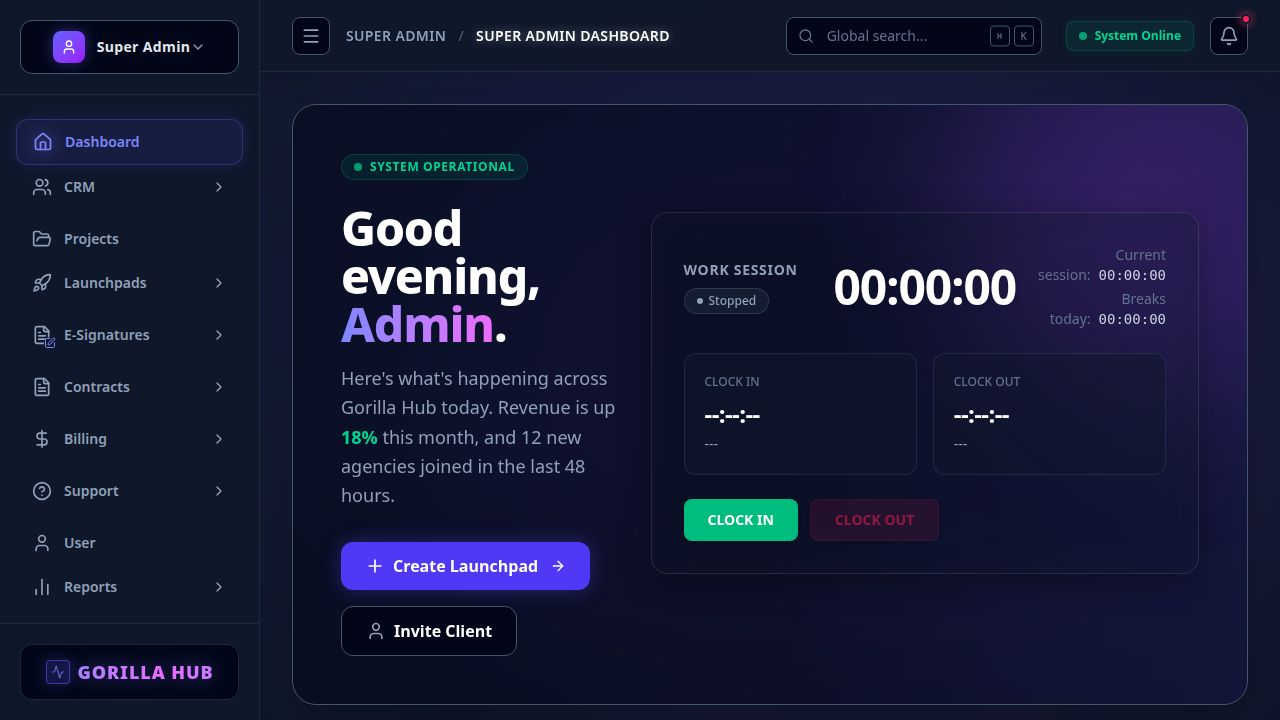
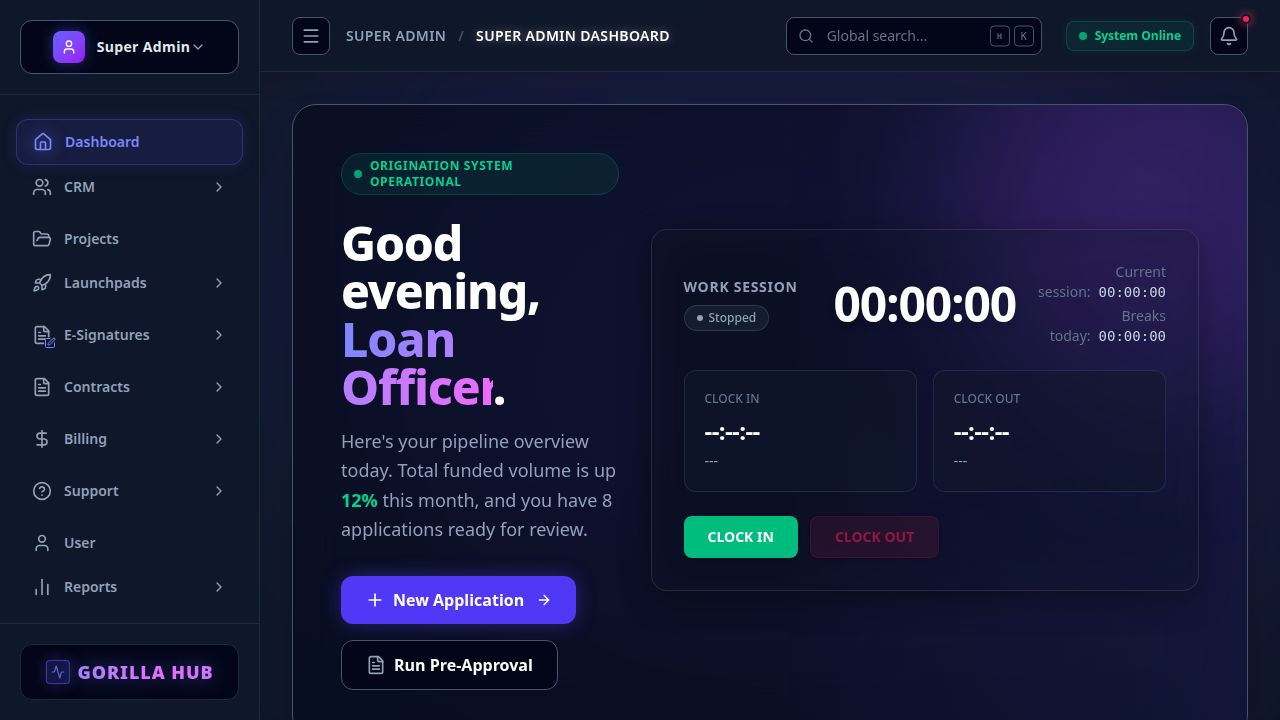
Tailor the dashboard for mortgage lenders and loan officers
Update the dashboard to reflect mortgage industry terminology and relevant metrics, changing the user role to "Loan Officer" and the title to "Pipeline Dashboard".

Replit-Commit-Author: Agent
Replit-Commit-Session-Id: 66178eed-1e73-4b0f-9774-d95ec04c2e16
Replit-Commit-Checkpoint-Type: full_checkpoint
Replit-Commit-Event-Id: aeb047b5-2c97-47df-9a31-aa381c2d09e6
Replit-Commit-Screenshot-Url: https://storage.googleapis.com/screenshot-production-us-central1/cde06d1c-05ae-446a-b0b3-461d07a2211d/66178eed-1e73-4b0f-9774-d95ec04c2e16/3mkCZMK
Replit-Helium-Checkpoint-Created: true

diff --git a/client/src/pages/home.tsx b/client/src/pages/home.tsx
@@ -52,7 +52,7 @@ export default function Home() {
         <div className="absolute top-0 left-1/2 -translate-x-1/2 w-full max-w-5xl h-[600px] bg-indigo-500/10 blur-[150px] rounded-full pointer-events-none z-0"></div>
         <div className="absolute bottom-0 right-0 w-[800px] h-[600px] bg-fuchsia-500/5 blur-[120px] rounded-full pointer-events-none z-0"></div>
 
-        <Header title="Super Admin Dashboard" />
+        <Header title="Pipeline Dashboard" />
 
         {/* Main Layout */}
         <div className="flex flex-1 overflow-hidden relative z-10">
@@ -68,24 +68,24 @@ export default function Home() {
                   <div className="max-w-2xl">
                     <div className="inline-flex items-center gap-2 px-3 py-1 rounded-full bg-emerald-500/10 border border-emerald-500/20 text-emerald-400 text-xs font-bold uppercase tracking-wider mb-6">
                       <span className="w-2 h-2 rounded-full bg-emerald-400 animate-pulse"></span>
-                      System Operational
+                      Origination System Operational
                     </div>
                     <h1 className="text-4xl md:text-5xl font-extrabold text-white tracking-tight mb-4">
-                      {greeting}, <span className="text-transparent bg-clip-text bg-gradient-to-r from-indigo-400 to-fuchsia-400">Admin</span>.
+                      {greeting}, <span className="text-transparent bg-clip-text bg-gradient-to-r from-indigo-400 to-fuchsia-400">Loan Officer</span>.
                     </h1>
                     <p className="text-slate-400 text-lg leading-relaxed mb-8 max-w-xl">
-                      Here's what's happening across Gorilla Hub today. Revenue is up <span className="text-emerald-400 font-bold">18%</span> this month, and 12 new agencies joined in the last 48 hours.
+                      Here's your pipeline overview today. Total funded volume is up <span className="text-emerald-400 font-bold">12%</span> this month, and you have 8 applications ready for review.
                     </p>
                     
                     <div className="flex flex-wrap items-center gap-4">
                       <button className="px-6 py-3 rounded-xl bg-indigo-600 hover:bg-indigo-500 text-white font-bold transition-all shadow-[0_0_20px_rgba(79,70,229,0.4)] hover:shadow-[0_0_30px_rgba(79,70,229,0.6)] flex items-center gap-2 group">
                         <Plus className="w-5 h-5" />
-                        Create Launchpad
+                        New Application
                         <ArrowRight className="w-4 h-4 ml-1 group-hover:translate-x-1 transition-transform" />
                       </button>
                       <button className="px-6 py-3 rounded-xl bg-slate-800 hover:bg-slate-700 text-white font-bold transition-all border border-slate-600 bg-slate-950 hover:border-slate-500 flex items-center gap-2">
-                        <User className="w-5 h-5 text-slate-400" />
-                        Invite Client
+                        <FileText className="w-5 h-5 text-slate-400" />
+                        Run Pre-Approval
                       </button>
                     </div>
                   </div>
@@ -99,10 +99,10 @@ export default function Home() {
               {/* TOP METRICS ROW */}
               <div className="grid grid-cols-1 md:grid-cols-2 lg:grid-cols-4 gap-6">
                 {[
-                  { title: 'Total Users', value: '12,482', trend: '+12%', up: true, icon: Users, color: 'purple' },
-                  { title: 'Active Clients', value: '842', trend: '+5%', up: true, icon: Building2, color: 'cyan' },
-                  { title: 'Monthly MRR', value: '$142.5k', trend: '+18%', up: true, icon: Activity, color: 'emerald' },
-                  { title: 'API Requests/min', value: '4,281', trend: 'Stable', up: true, icon: Server, color: 'orange' }
+                  { title: 'Active Pipeline', value: '$4.2M', trend: '+12%', up: true, icon: Briefcase, color: 'purple' },
+                  { title: 'Loans in Process', value: '14', trend: '+2', up: true, icon: FileText, color: 'cyan' },
+                  { title: 'Funded YTD', value: '$18.5M', trend: '+18%', up: true, icon: DollarSign, color: 'emerald' },
+                  { title: 'Avg Close Time', value: '22 Days', trend: '-3 Days', up: true, icon: Activity, color: 'orange' }
                 ].map((metric, i) => (
                   <div 
                     key={i} 
@@ -113,7 +113,7 @@ export default function Home() {
                       <div className={`p-3 rounded-xl bg-${metric.color}-500/10 border border-${metric.color}-500/20 text-${metric.color}-400 group-hover:bg-${metric.color}-500 group-hover:text-white transition-colors`}>
                         <metric.icon className="w-5 h-5" />
                       </div>
-                      <div className={`flex items-center gap-1 text-xs font-bold px-2.5 py-1 rounded-md ${metric.trend === 'Stable' ? 'bg-slate-800 text-slate-300' : 'bg-emerald-500/10 text-emerald-400'}`}>
+                      <div className={`flex items-center gap-1 text-xs font-bold px-2.5 py-1 rounded-md ${metric.trend.includes('-') && !metric.trend.includes('Days') ? 'bg-rose-500/10 text-rose-400' : 'bg-emerald-500/10 text-emerald-400'}`}>
                         {metric.trend !== 'Stable' && <TrendingUp className="w-3 h-3" />} {metric.trend}
                       </div>
                     </div>
@@ -134,8 +134,8 @@ export default function Home() {
                   
                   <div className="flex flex-col sm:flex-row sm:items-center justify-between gap-4 mb-8 relative z-10">
                     <div>
-                      <h2 className="text-xl font-bold text-white mb-1">Platform Revenue Growth</h2>
-                      <p className="text-sm text-slate-400">MRR trajectory across all agency tiers</p>
+                      <h2 className="text-xl font-bold text-white mb-1">Funded Volume Overview</h2>
+                      <p className="text-sm text-slate-400">Total loan amount funded across all programs</p>
                     </div>
                     <div className="flex bg-slate-800/80 p-1 rounded-lg border border-slate-600 bg-slate-950/50">
                       {['7D', '30D', '90D'].map((range) => (
@@ -158,7 +158,7 @@ export default function Home() {
                   <div className="h-72 flex items-end gap-2 relative z-10 pt-4 mt-4">
                     {/* Y Axis */}
                     <div className="absolute left-0 top-0 bottom-0 flex flex-col justify-between text-xs text-slate-500 font-mono py-2 w-12 border-r border-slate-800">
-                      <span>$150k</span><span>$100k</span><span>$50k</span><span>$0</span>
+                      <span>$2M</span><span>$1.5M</span><span>$1M</span><span>$0</span>
                     </div>
                     
                     {/* Grid Lines */}
@@ -176,7 +176,7 @@ export default function Home() {
                           {/* Tooltip */}
                           <div className="absolute -top-12 left-1/2 -translate-x-1/2 bg-slate-800 border border-slate-600 bg-slate-950 text-white text-xs py-1.5 px-3 rounded-lg opacity-0 group-hover/bar:opacity-100 transition-opacity z-20 pointer-events-none whitespace-nowrap shadow-xl flex items-center gap-1.5 font-bold">
                             <span className="w-1.5 h-1.5 rounded-full bg-indigo-400"></span>
-                            ${(height * 1.5).toFixed(1)}k
+                            ${(height * 0.02).toFixed(2)}M
                           </div>
                           
                           {/* Bar */}
@@ -199,126 +199,108 @@ export default function Home() {
                   </div>
                 </div>
 
-                {/* ROI / Revenue Calculator Widget */}
+                {/* Rates Widget */}
                 <div className="bg-slate-900/60 backdrop-blur-xl rounded-2xl border border-slate-600 bg-slate-950/50 shadow-lg flex flex-col animate-in fade-in slide-in-from-bottom-4 delay-700 border-t-emerald-500 border-t-4 relative overflow-hidden">
                   <div className="absolute top-0 right-0 w-32 h-32 bg-emerald-500/10 blur-[50px] rounded-full"></div>
                   
                   <div className="p-6 border-b border-slate-800/80">
                     <h2 className="text-lg font-bold text-white flex items-center gap-2 mb-1">
-                      <Calculator className="w-5 h-5 text-emerald-400" /> Revenue Projection
+                      <Percent className="w-5 h-5 text-emerald-400" /> Today's Rates
                     </h2>
-                    <p className="text-xs text-slate-400">Forecast MRR based on client growth</p>
+                    <p className="text-xs text-slate-400">National average mortgage rates</p>
                   </div>
                   
-                  <div className="p-6 flex-1 flex flex-col justify-between space-y-6">
-                    <div className="space-y-5">
-                      <div>
-                        <div className="flex justify-between items-end mb-2">
-                          <label className="text-[13px] font-bold text-slate-300">New Clients / Month</label>
-                          <span className="text-[15px] font-bold text-white bg-slate-800 px-2 py-0.5 rounded">{calcClients}</span>
-                        </div>
-                        <input 
-                          type="range" 
-                          min="1" 
-                          max="100" 
-                          value={calcClients}
-                          onChange={(e) => setCalcClients(parseInt(e.target.value))}
-                          className="w-full h-2 bg-slate-800 rounded-lg appearance-none cursor-pointer accent-emerald-500"
-                        />
-                      </div>
-                      
-                      <div>
-                        <div className="flex justify-between items-end mb-2">
-                          <label className="text-[13px] font-bold text-slate-300">Average Retainer</label>
-                          <span className="text-[15px] font-bold text-white bg-slate-800 px-2 py-0.5 rounded">${calcRetainer.toLocaleString()}</span>
-                        </div>
-                        <input 
-                          type="range" 
-                          min="500" 
-                          max="10000" 
-                          step="100"
-                          value={calcRetainer}
-                          onChange={(e) => setCalcRetainer(parseInt(e.target.value))}
-                          className="w-full h-2 bg-slate-800 rounded-lg appearance-none cursor-pointer accent-emerald-500"
-                        />
-                      </div>
+                  <div className="p-0 flex-1 flex flex-col">
+                    <div className="divide-y divide-slate-800/80">
+                      {[
+                        { program: '30-Year Fixed', rate: '6.85%', apr: '7.02%', trend: 'down' },
+                        { program: '15-Year Fixed', rate: '6.12%', apr: '6.31%', trend: 'down' },
+                        { program: '5/1 ARM', rate: '6.25%', apr: '7.54%', trend: 'up' },
+                        { program: 'Jumbo 30-Year', rate: '7.05%', apr: '7.15%', trend: 'stable' },
+                        { program: 'FHA 30-Year', rate: '6.45%', apr: '7.38%', trend: 'down' }
+                      ].map((item, i) => (
+                         <div key={i} className="p-4 flex items-center justify-between hover:bg-slate-800/40 transition-colors">
+                            <div>
+                               <div className="text-sm font-bold text-white">{item.program}</div>
+                               <div className="text-[11px] text-slate-400">APR {item.apr}</div>
+                            </div>
+                            <div className="flex items-center gap-3">
+                               <div className="text-lg font-extrabold text-emerald-400">{item.rate}</div>
+                               <div className={`flex items-center justify-center w-5 h-5 rounded-full ${
+                                 item.trend === 'down' ? 'bg-emerald-500/20 text-emerald-400' : 
+                                 item.trend === 'up' ? 'bg-rose-500/20 text-rose-400' : 
+                                 'bg-slate-700 text-slate-400'
+                               }`}>
+                                 {item.trend === 'down' ? <TrendingUp className="w-3 h-3 rotate-180" /> : 
+                                  item.trend === 'up' ? <TrendingUp className="w-3 h-3" /> : 
+                                  <span className="w-2 h-0.5 bg-slate-400 rounded-full"></span>}
+                               </div>
+                            </div>
+                         </div>
+                      ))}
                     </div>
                     
-                    <div className="bg-gradient-to-br from-slate-800 to-slate-900 border border-slate-600 bg-slate-950/50 rounded-xl p-5 relative overflow-hidden group">
-                      <div className="absolute inset-0 bg-emerald-500/5 opacity-0 group-hover:opacity-100 transition-opacity"></div>
-                      <div className="text-[11px] font-bold text-slate-400 uppercase tracking-wider mb-1">Projected Added MRR</div>
-                      <div className="text-3xl font-extrabold text-emerald-400 tracking-tight mb-4">
-                        ${(calcClients * calcRetainer).toLocaleString()}
-                        <span className="text-sm text-slate-500 font-normal">/mo</span>
-                      </div>
-                      
-                      <div className="flex justify-between items-center pt-4 border-t border-slate-600 bg-slate-950/50">
-                        <div className="text-[11px] font-bold text-slate-400 uppercase">Annual Impact</div>
-                        <div className="text-sm font-bold text-white">
-                          +${(calcClients * calcRetainer * 12).toLocaleString()}
-                        </div>
-                      </div>
+                    <div className="mt-auto p-4 border-t border-slate-800/80 bg-slate-900/30 text-center">
+                       <span className="text-[11px] text-slate-500 font-medium">Last updated: Today at 8:30 AM EST</span>
                     </div>
                   </div>
                 </div>
               </div>
 
-              {/* BOTTOM ROW: REVIEWS, FEEDBACK, TICKETS */}
+              {/* BOTTOM ROW: PIPELINE, TASKS */}
               <div className="grid grid-cols-1 lg:grid-cols-3 gap-6">
                 
-                {/* Client Reviews Widget */}
+                {/* Task List Widget */}
                 <div className="glass-panel rounded-2xl border border-slate-600 bg-slate-950/50 shadow-lg flex flex-col animate-in fade-in slide-in-from-bottom-4 delay-1000 border-t-amber-500 border-t-4">
                   <div className="p-5 border-b border-slate-800/80 flex justify-between items-center bg-slate-900/30">
                     <h2 className="text-[15px] font-bold text-white flex items-center gap-2">
-                      <MessageSquare className="w-4 h-4 text-amber-400" /> Client Feedback
+                      <CheckSquare className="w-4 h-4 text-amber-400" /> Action Items
                     </h2>
-                    <span className="text-xs font-bold text-amber-400 bg-amber-400/10 px-2 py-0.5 rounded">4.9/5.0</span>
+                    <span className="text-xs font-bold text-amber-400 bg-amber-400/10 px-2 py-0.5 rounded">6 Due Today</span>
                   </div>
                   
-                  <div className="p-5 space-y-4">
-                    {[
-                      { name: 'Sarah Jenkins', company: 'Nexus Digital', rating: 5, text: 'The new dashboard completely transformed how we manage projects.', time: '2h ago' },
-                      { name: 'Marcus Cole', company: 'Blue Ocean', rating: 5, text: 'Incredible onboarding experience. Gorilla Hub is next level.', time: '5h ago' },
-                      { name: 'Elena Rostova', company: 'Studio Elevate', rating: 4, text: 'Great templates, saved us hours of setup work this week.', time: '1d ago' }
-                    ].map((review, i) => (
-                      <div key={i} className="p-4 rounded-xl bg-slate-800/40 border border-slate-600 bg-slate-950/50 hover:bg-slate-800/60 transition-colors">
-                        <div className="flex justify-between items-start mb-2">
-                          <div className="flex items-center gap-2">
-                            <div className="w-8 h-8 rounded-full bg-slate-700 flex items-center justify-center text-xs font-bold text-white border border-slate-600 bg-slate-950">
-                              {review.name.charAt(0)}
-                            </div>
-                            <div>
-                              <div className="text-[13px] font-bold text-white leading-none">{review.name}</div>
-                              <div className="text-[11px] text-slate-400 mt-1">{review.company}</div>
-                            </div>
-                          </div>
-                          <div className="flex gap-0.5">
-                            {[...Array(5)].map((_, j) => (
-                              <Star key={j} className={`w-3 h-3 ${j < review.rating ? 'text-amber-400 fill-amber-400' : 'text-slate-600'}`} />
-                            ))}
-                          </div>
+                  <div className="p-0">
+                    <div className="divide-y divide-slate-800/50">
+                      {[
+                        { task: 'Review appraisal for Smith property', client: 'John & Jane Smith', type: 'Underwriting', time: '10:00 AM' },
+                        { task: 'Send initial disclosures', client: 'Michael Johnson', type: 'Origination', time: '1:30 PM' },
+                        { task: 'Follow up on missing W2s', client: 'Sarah Williams', type: 'Processing', time: '3:00 PM' },
+                        { task: 'Lock rate before expiration', client: 'David Brown', type: 'Lock Desk', time: '4:15 PM' },
+                        { task: 'Call listing agent for status', client: 'Emily Davis', type: 'Communication', time: '5:00 PM' }
+                      ].map((task, i) => (
+                        <div key={i} className="p-4 flex items-start gap-3 hover:bg-slate-800/40 transition-colors group cursor-pointer">
+                           <div className="mt-0.5 w-4 h-4 rounded border border-slate-500 bg-slate-800 flex items-center justify-center group-hover:border-amber-500 transition-colors">
+                              <CheckSquare className="w-3 h-3 text-transparent group-hover:text-amber-500/50" />
+                           </div>
+                           <div className="flex-1 min-w-0">
+                              <div className="text-[13px] font-bold text-white mb-0.5 truncate">{task.task}</div>
+                              <div className="flex items-center gap-2 text-[11px]">
+                                <span className="text-slate-400 truncate">{task.client}</span>
+                                <span className="w-1 h-1 rounded-full bg-slate-600"></span>
+                                <span className="text-amber-400/80">{task.type}</span>
+                              </div>
+                           </div>
+                           <div className="text-[11px] font-medium text-slate-500 whitespace-nowrap">{task.time}</div>
                         </div>
-                        <p className="text-[13px] text-slate-300 leading-relaxed italic relative">
-                          <span className="text-slate-600 font-serif text-lg absolute -top-1 -left-1">"</span>
-                          &nbsp;&nbsp;{review.text}
-                        </p>
-                      </div>
-                    ))}
+                      ))}
+                    </div>
                     
-                    <button className="w-full py-2.5 rounded-lg border border-slate-600 bg-slate-950 text-[13px] font-bold text-slate-300 hover:bg-slate-800 hover:text-white transition-colors mt-2">
-                      View All Reviews
-                    </button>
+                    <div className="p-4 border-t border-slate-800/80 bg-slate-900/30">
+                        <button className="w-full py-2.5 rounded-lg border border-slate-600 bg-slate-950 text-[13px] font-bold text-slate-300 hover:bg-slate-800 hover:text-white transition-colors">
+                        View All Tasks
+                        </button>
+                    </div>
                   </div>
                 </div>
 
-                {/* Urgent Support Tickets */}
+                {/* Pipeline Status */}
                 <div className="lg:col-span-2 glass-panel rounded-2xl border border-slate-600 bg-slate-950/50 shadow-lg flex flex-col animate-in fade-in slide-in-from-bottom-4 delay-1000 border-t-rose-500 border-t-4">
                   <div className="p-5 border-b border-slate-800/80 flex justify-between items-center bg-slate-900/30">
                     <h2 className="text-[15px] font-bold text-white flex items-center gap-2">
-                      <ShieldAlert className="w-4 h-4 text-rose-400" /> Attention Required
+                      <Zap className="w-4 h-4 text-rose-400" /> Active Pipeline Needs Attention
                     </h2>
-                    <Link href="/tickets" className="text-xs font-bold text-slate-400 hover:text-white transition-colors">
-                      View All Tickets <ArrowRight className="w-3 h-3 inline" />
+                    <Link href="/clients" className="text-xs font-bold text-slate-400 hover:text-white transition-colors">
+                      View Full Pipeline <ArrowRight className="w-3 h-3 inline" />
                     </Link>
                   </div>
                   
@@ -326,33 +308,37 @@ export default function Home() {
                     <table className="w-full text-left">
                       <thead className="bg-slate-950 border-b border-slate-800">
                         <tr>
-                          <th className="py-3 px-5 text-[11px] font-bold text-slate-400 uppercase tracking-wider">Ticket ID</th>
-                          <th className="py-3 px-5 text-[11px] font-bold text-slate-400 uppercase tracking-wider">Client</th>
-                          <th className="py-3 px-5 text-[11px] font-bold text-slate-400 uppercase tracking-wider">Issue Description</th>
+                          <th className="py-3 px-5 text-[11px] font-bold text-slate-400 uppercase tracking-wider">Borrower</th>
+                          <th className="py-3 px-5 text-[11px] font-bold text-slate-400 uppercase tracking-wider">Loan Amount</th>
+                          <th className="py-3 px-5 text-[11px] font-bold text-slate-400 uppercase tracking-wider">Program</th>
+                          <th className="py-3 px-5 text-[11px] font-bold text-slate-400 uppercase tracking-wider">Est. Close</th>
                           <th className="py-3 px-5 text-[11px] font-bold text-slate-400 uppercase tracking-wider text-right">Status</th>
                         </tr>
                       </thead>
                       <tbody className="divide-y divide-slate-800/50">
                         {[
-                          { id: '#T-4921', rawId: '4921', agency: 'Pink Gorilla', agencyId: '1', issue: 'API Webhook failing on production', status: 'Escalated', color: 'text-rose-400 bg-rose-500/10 border-rose-500/20' },
-                          { id: '#T-4920', rawId: '4920', agency: 'Acme Digital', agencyId: '2', issue: 'Billing portal error during checkout', status: 'In Progress', color: 'text-amber-400 bg-amber-500/10 border-amber-500/20' },
-                          { id: '#T-4915', rawId: '4915', agency: 'Creative LLC', agencyId: '3', issue: 'Custom domain setup SSL pending', status: 'Waiting', color: 'text-indigo-400 bg-indigo-500/10 border-indigo-500/20' },
-                          { id: '#T-4908', rawId: '4908', agency: 'Global Tech', agencyId: '4', issue: 'White label email configuration', status: 'In Progress', color: 'text-amber-400 bg-amber-500/10 border-amber-500/20' },
-                          { id: '#T-4902', rawId: '4902', agency: 'Design Co', agencyId: '5', issue: 'Team member invites not sending', status: 'New', color: 'text-cyan-400 bg-cyan-500/10 border-cyan-500/20' },
-                        ].map((ticket, i) => (
+                          { name: 'Smith, John & Jane', amount: '$450,000', program: '30-Yr Conv', closeDate: 'Oct 15', status: 'Clear to Close', color: 'text-emerald-400 bg-emerald-500/10 border-emerald-500/20' },
+                          { name: 'Johnson, Michael', amount: '$325,000', program: 'FHA 30-Yr', closeDate: 'Oct 22', status: 'Cond. Approval', color: 'text-indigo-400 bg-indigo-500/10 border-indigo-500/20' },
+                          { name: 'Williams, Sarah', amount: '$850,000', program: 'Jumbo 30-Yr', closeDate: 'Oct 28', status: 'Appraisal Ordered', color: 'text-amber-400 bg-amber-500/10 border-amber-500/20' },
+                          { name: 'Brown, David', amount: '$275,000', program: 'VA 30-Yr', closeDate: 'Nov 05', status: 'Processing', color: 'text-cyan-400 bg-cyan-500/10 border-cyan-500/20' },
+                          { name: 'Davis, Emily', amount: '$520,000', program: '30-Yr Conv', closeDate: 'Nov 12', status: 'Application', color: 'text-rose-400 bg-rose-500/10 border-rose-500/20' },
+                        ].map((loan, i) => (
                           <tr key={i} className="hover:bg-slate-800/40 transition-colors group cursor-pointer">
-                            <td className="py-3.5 px-5 font-mono text-[13px] text-slate-400 group-hover:text-white transition-colors">
-                              {ticket.id}
+                            <td className="py-3.5 px-5 text-[13px] font-bold text-white group-hover:text-indigo-400 transition-colors">
+                              {loan.name}
                             </td>
-                            <td className="py-3.5 px-5 text-[13px] font-bold text-white">
-                              {ticket.agency}
+                            <td className="py-3.5 px-5 font-mono text-[13px] text-slate-300">
+                              {loan.amount}
                             </td>
-                            <td className="py-3.5 px-5 text-[13px] text-slate-300 truncate max-w-[200px]">
-                              {ticket.issue}
+                            <td className="py-3.5 px-5 text-[13px] text-slate-400">
+                              {loan.program}
+                            </td>
+                            <td className="py-3.5 px-5 text-[13px] text-slate-400">
+                              {loan.closeDate}
                             </td>
                             <td className="py-3.5 px-5 text-right">
-                              <span className={`inline-flex items-center px-2 py-0.5 rounded text-[11px] font-bold border ${ticket.color}`}>
-                                {ticket.status}
+                              <span className={`inline-flex items-center px-2 py-0.5 rounded text-[11px] font-bold border ${loan.color}`}>
+                                {loan.status}
                               </span>
                             </td>
                           </tr>
@@ -360,14 +346,7 @@ export default function Home() {
                       </tbody>
                     </table>
                   </div>
-                  
-                  <div className="p-4 border-t border-slate-800/80 bg-slate-900/30">
-                    <button className="w-full py-2 bg-slate-800 hover:bg-slate-700 text-white rounded-lg text-[13px] font-bold transition-colors border border-slate-600 bg-slate-950 flex items-center justify-center gap-2">
-                      <HelpCircle className="w-4 h-4 text-slate-400" /> Go to Support Desk
-                    </button>
-                  </div>
                 </div>
-
               </div>
               
               {/* Extra spacing at bottom */}

diff --git a/client/src/pages/clients.tsx b/client/src/pages/clients.tsx
@@ -61,7 +61,7 @@ export function Sidebar({ openMenus, toggleMenu, currentPath }: { openMenus: str
             <div className="w-8 h-8 rounded-lg bg-gradient-to-br from-indigo-500 to-purple-600 text-white flex items-center justify-center overflow-hidden shrink-0 shadow-[0_0_15px_rgba(99,102,241,0.4)] group-hover:shadow-[0_0_20px_rgba(99,102,241,0.6)] transition-shadow">
                <User className="w-4 h-4" />
             </div>
-            {sidebarOpen && <span className="text-sm font-bold text-[#e2e8f0] tracking-wide whitespace-nowrap">Super Admin</span>}
+            {sidebarOpen && <span className="text-sm font-bold text-[#e2e8f0] tracking-wide whitespace-nowrap">Loan Officer</span>}
           </div>
           {sidebarOpen && <ChevronDown className="w-4 h-4 text-slate-400 shrink-0" />}
         </button>
@@ -398,7 +398,7 @@ export function Header({ title }: { title: string }) {
       </button>
       
       <div className="flex items-center text-sm font-semibold text-slate-400 tracking-wide uppercase">
-        Super Admin <span className="mx-3 text-slate-600">/</span> <span className="text-white drop-shadow-[0_0_5px_rgba(255,255,255,0.3)]">{title}</span>
+        Loan Officer <span className="mx-3 text-slate-600">/</span> <span className="text-white drop-shadow-[0_0_5px_rgba(255,255,255,0.3)]">{title}</span>
       </div>
 
       <div className="ml-auto flex items-center space-x-6">
